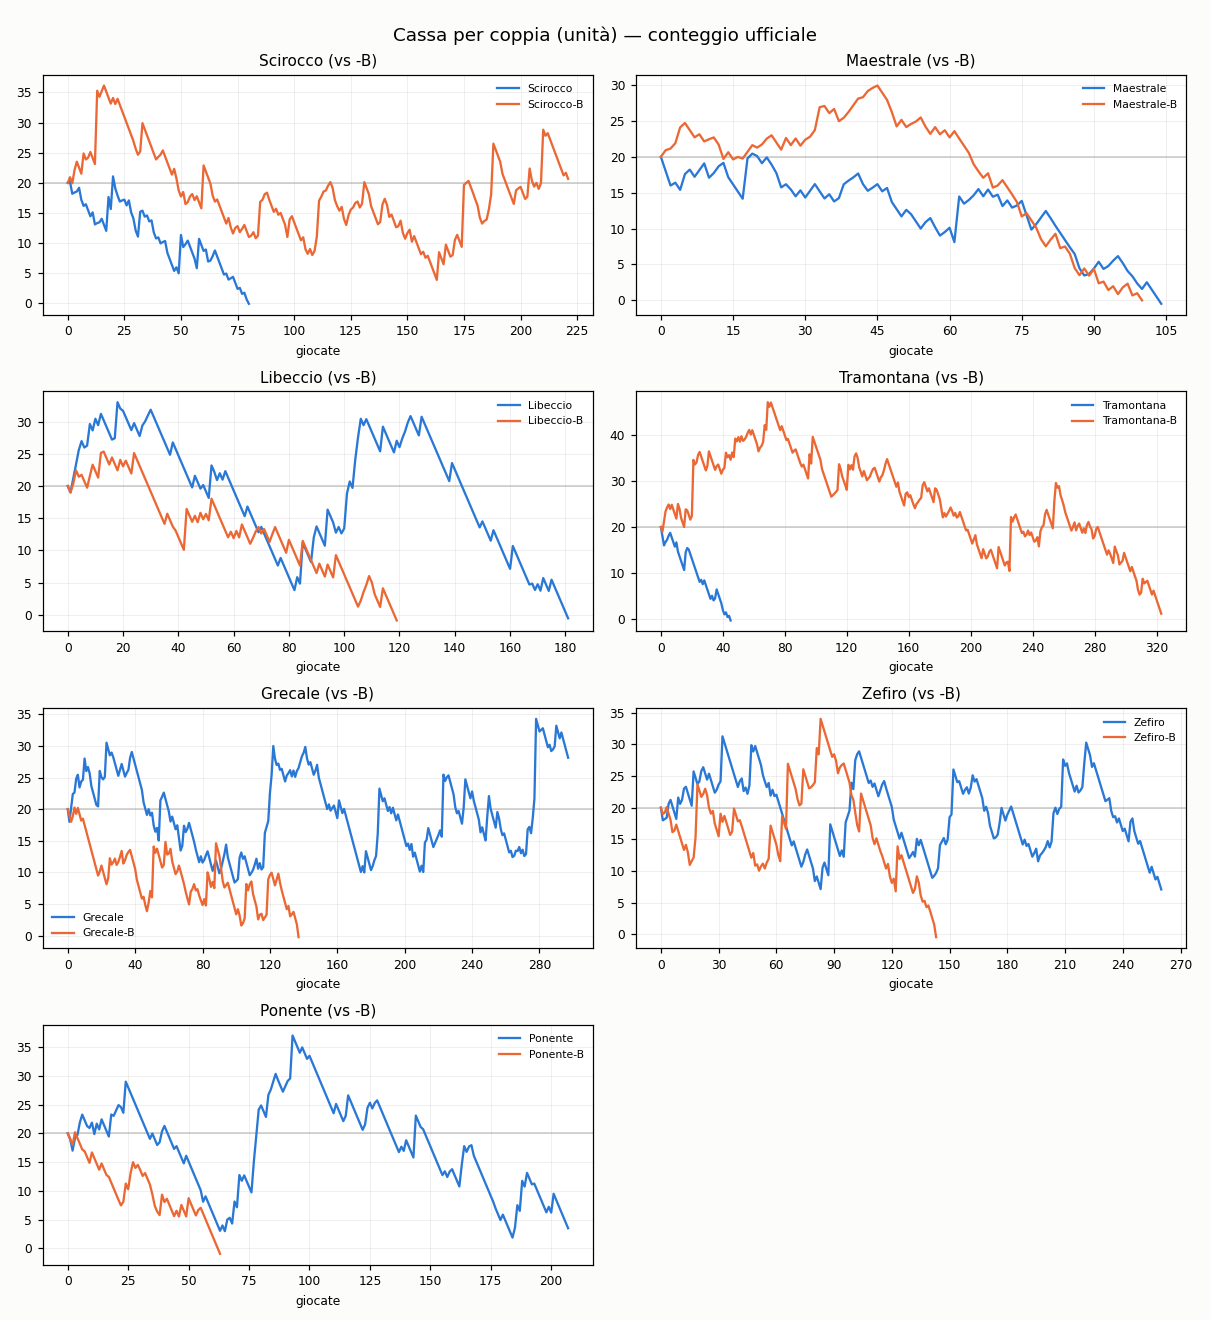
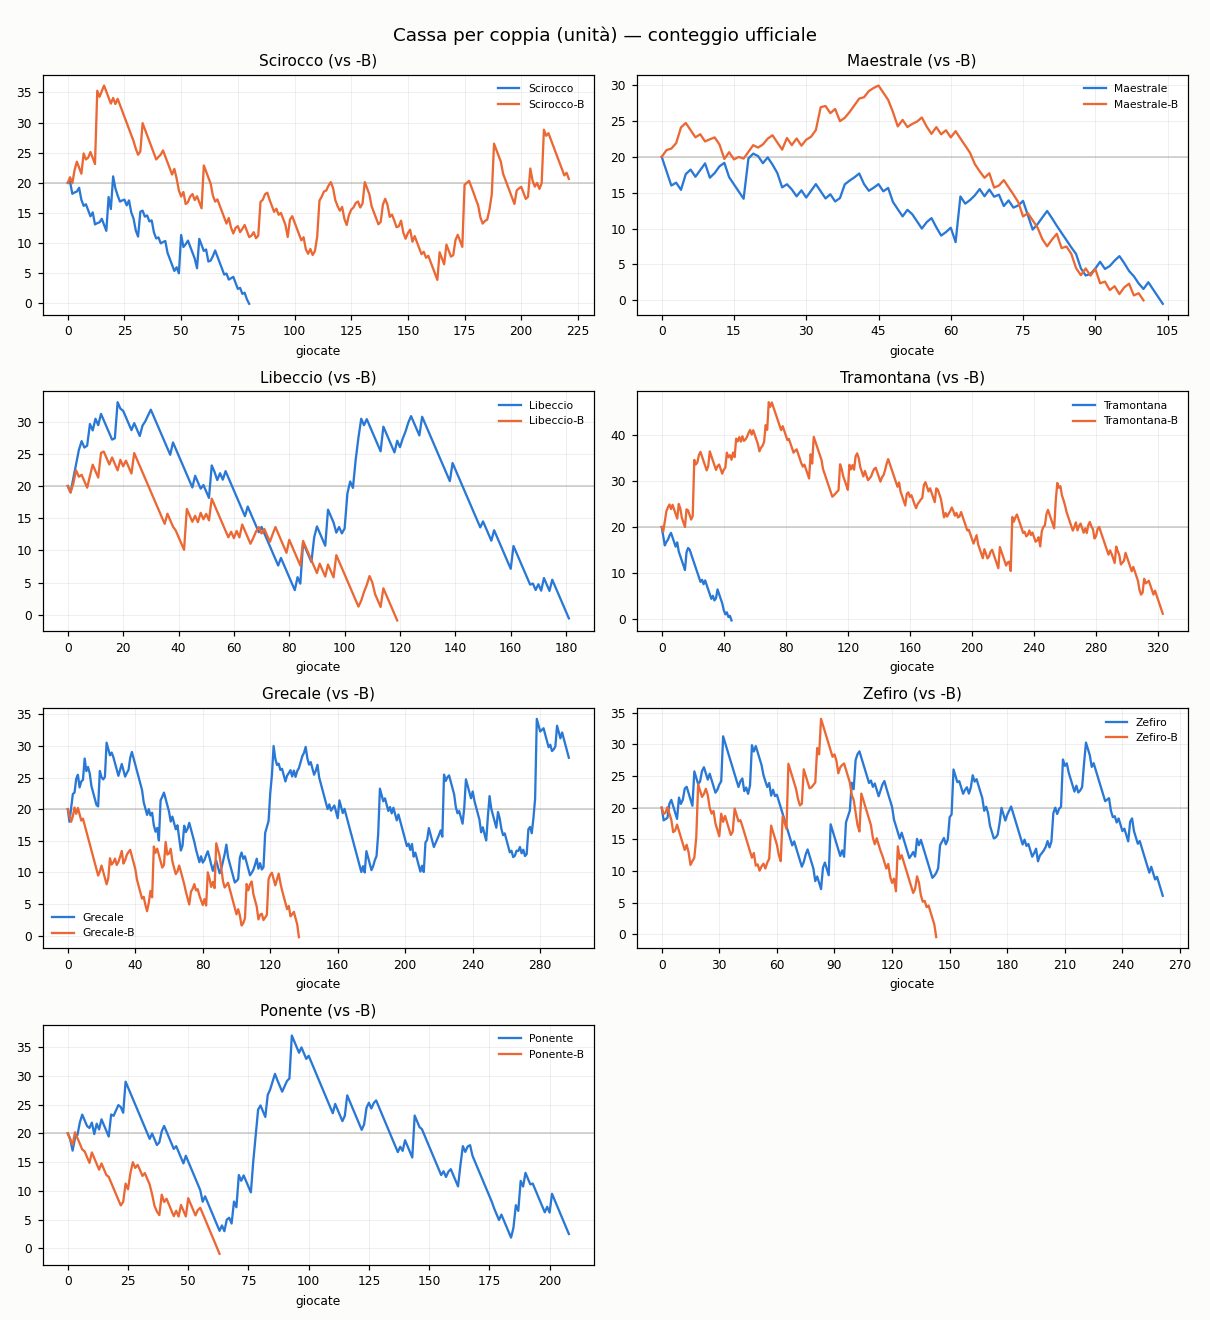
aggiornamento 2026-07-25 16:31 UTC

diff --git a/README.md b/README.md
@@ -37,9 +37,9 @@ scala in unità). Non indichiamo quale.
 
 ## Grafici
 
-![Coppie: dati completi vs ridotti](https://raw.githubusercontent.com/Kitem19/ippica-track-record/main/charts/equity_pairs.png?v=7a2865bf)
+![Coppie: dati completi vs ridotti](https://raw.githubusercontent.com/Kitem19/ippica-track-record/main/charts/equity_pairs.png?v=8e191364)
 
-![Delta per coppia](https://raw.githubusercontent.com/Kitem19/ippica-track-record/main/charts/coppie_delta.png?v=5213992c)
+![Delta per coppia](https://raw.githubusercontent.com/Kitem19/ippica-track-record/main/charts/coppie_delta.png?v=c0d75eed)
 
 ### Come leggere i grafici
 
@@ -61,8 +61,8 @@ _Poche giornate: numeri ancora rumorosi, si conclude a fine fase (31/7)._
 - **Libeccio**: in sostanziale pareggio — troppo presto per dire
 - **Tramontana**: in sostanziale pareggio — troppo presto per dire
 - **Grecale**: dati completi avanti di 28,4u
-- **Zefiro**: dati completi avanti di 7,5u
-- **Ponente**: dati completi avanti di 4,4u
+- **Zefiro**: dati completi avanti di 6,5u
+- **Ponente**: dati completi avanti di 3,4u
 
 ## Classifica (conteggio ufficiale)
 
@@ -70,20 +70,20 @@ _Poche giornate: numeri ancora rumorosi, si conclude a fine fase (31/7)._
 |---|---|---|---|---|---|
 | Grecale | 28,1 | +8,1 | 297 | 4 | 🟢 |
 | Scirocco-B | 20,7 | +0,7 | 221 | 0 | 🟢 |
-| Zefiro | 7,1 | -12,9 | 260 | 5 | 🟢 |
-| Ponente | 3,5 | -16,5 | 207 | 28 | 🟢 |
-| Tramontana-B | 1,2 | -18,8 | 323 | 7 | ⏸ |
-| Maestrale-B | 0,0 | -20,0 | 100 | 229 | 🛑 |
-| Scirocco | 0,0 | -20,1 | 80 | 237 | 🛑 |
-| Grecale-B | 0,0 | -20,2 | 137 | 168 | 🛑 |
-| Tramontana | 0,0 | -20,3 | 45 | 301 | 🛑 |
-| Zefiro-B | 0,0 | -20,5 | 143 | 67 | 🛑 |
-| Maestrale | 0,0 | -20,5 | 104 | 249 | 🛑 |
-| Libeccio | 0,0 | -20,6 | 181 | 158 | 🛑 |
-| Libeccio-B | 0,0 | -20,9 | 119 | 174 | 🛑 |
+| Zefiro | 6,1 | -13,9 | 261 | 5 | ⏸ |
+| Ponente | 2,5 | -17,5 | 208 | 28 | 🟢 |
+| Tramontana-B | 1,2 | -18,8 | 323 | 8 | ⏸ |
+| Maestrale-B | 0,0 | -20,0 | 100 | 230 | 🛑 |
+| Scirocco | 0,0 | -20,1 | 80 | 238 | 🛑 |
+| Grecale-B | 0,0 | -20,2 | 137 | 169 | 🛑 |
+| Tramontana | 0,0 | -20,3 | 45 | 302 | 🛑 |
+| Zefiro-B | 0,0 | -20,5 | 143 | 68 | 🛑 |
+| Maestrale | 0,0 | -20,5 | 104 | 250 | 🛑 |
+| Libeccio | 0,0 | -20,6 | 181 | 159 | 🛑 |
+| Libeccio-B | 0,0 | -20,9 | 119 | 175 | 🛑 |
 | Ponente-B | 0,0 | -21,0 | 63 | 84 | 🛑 |
 
-_Aggiornato: 25/07 18:26_
+_Aggiornato: 25/07 18:31_
 ---
 *Nessuna delle informazioni qui pubblicate costituisce consiglio di gioco.
 Il gioco può causare dipendenza — 18+.*
